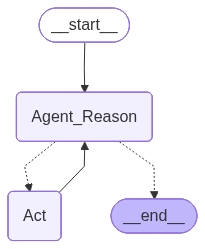
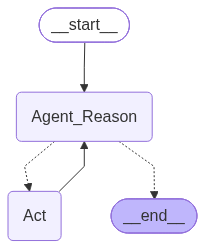
Improved Response formatting

diff --git a/main.py b/main.py
@@ -43,4 +43,11 @@ def main():
 if __name__ == "__main__":
     main()
     res = app.invoke({"messages":[HumanMessage(content="What is the wheather in Chennai now and list it till the end of triple of that value?")]})
-    print(res["messages"][LAST].content)
+    #print(res["messages"][LAST].content)
+    content = res["messages"][LAST].content #Get messages
+    #Messages contains Text, Type and extras.signature: Extract only text
+    if isinstance(content, list):
+        text = "\n".join([msg["text"] for msg in content if isinstance(msg,dict) and  msg["type"] == "text"])
+    else:
+        text = str(content)
+    print(text)
